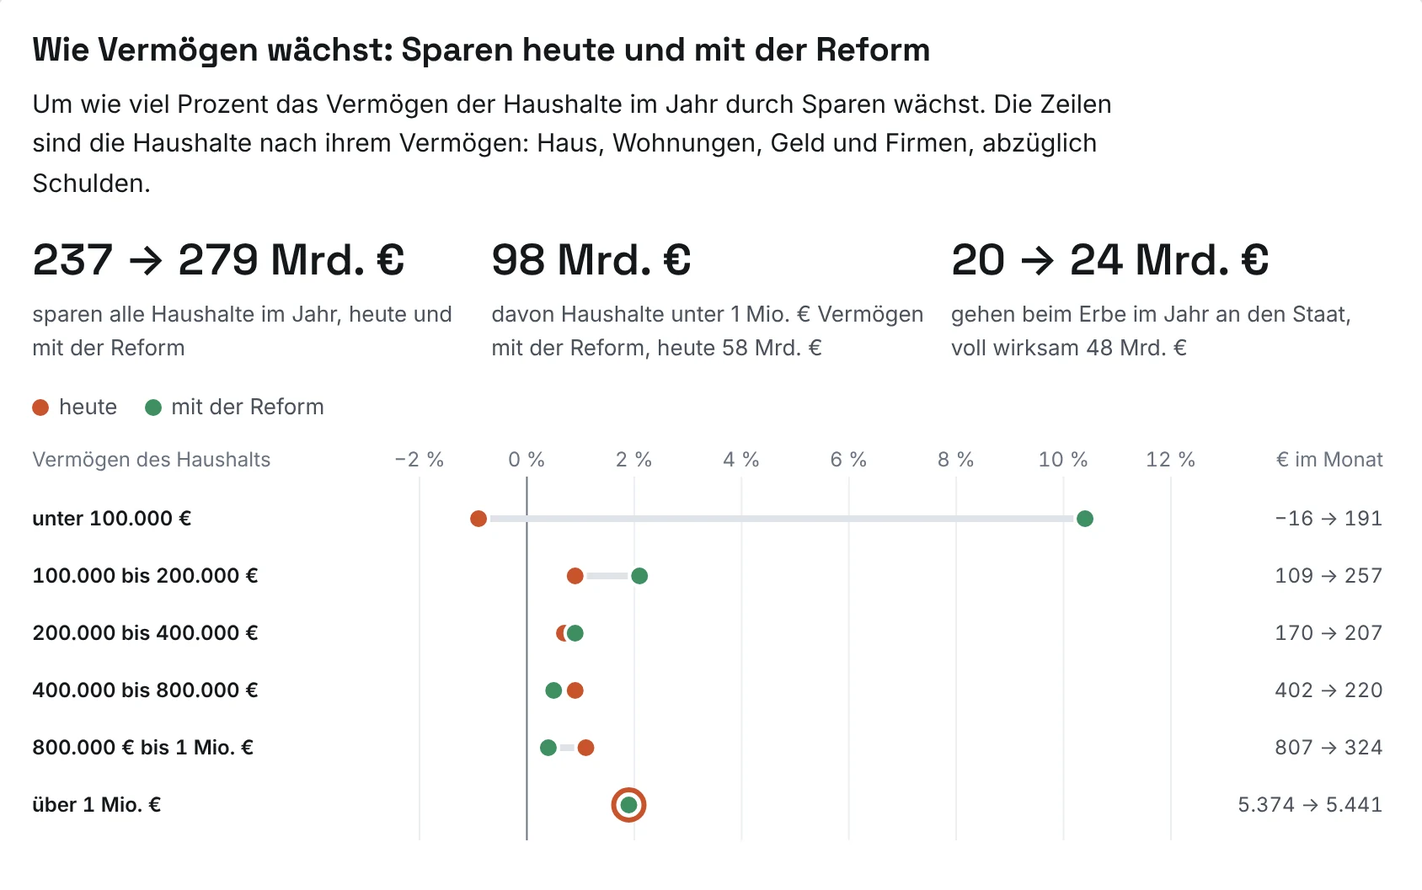
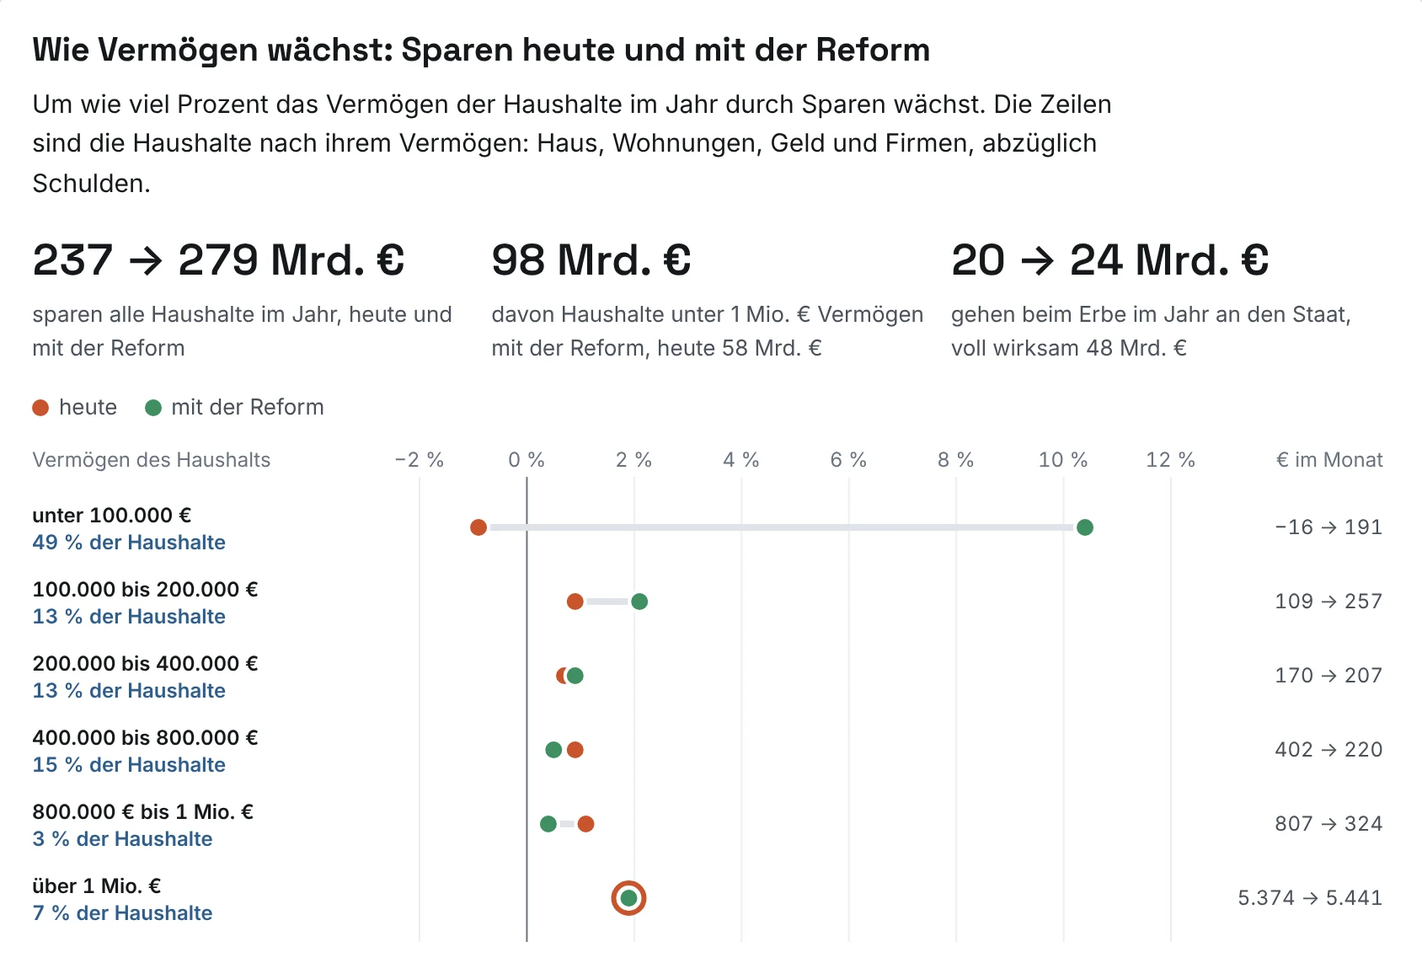
Startseite auf Version 32: Karten, Schuldengrafik; Vermögensgrafiken mit Anteil der Haushalte
Claude-Session: https://claude.ai/code/session_012Y93VcoN35D38RtTTtR6vF

diff --git a/index.html b/index.html
@@ -38,8 +38,8 @@
 <p class="quote">„Jede Einkommensart wird nach den gleichen Regeln und mit den gleichen Freibeträgen behandelt. Denn die Würde des Menschen ist gleich, ob man arm oder reich ist.“</p>
 <div class="grid3">
 <div class="card"><span class="big">frei</span><p>Das Existenzminimum bleibt steuerfrei, für jeden Erwachsenen und jedes Kind. Vom Lohn gehen keine Beiträge mehr ab, ohne Grenze, und der Arbeitgeber zahlt seine Anteile als Lohn aus. Lebensmittel, Trinkwasser, Bus und Bahn ohne Mehrwertsteuer.</p></div>
-<div class="card"><span class="big">7 von 10</span><p>Haushalten haben zum Start mehr Geld als heute, wenn sie so viel einkaufen wie heute, 83 von 100 mindestens so viel. Eine Familie mit zwei Kindern, 5.000 € brutto und eigenem Haus hat 1.119 € im Monat mehr.</p></div>
-<div class="card"><span class="big">trägt sich</span><p>Wer im bezahlten eigenen Haus wohnt, schon Rente bezieht oder aus versteuertem Ersparten lebt, zahlt nicht doppelt. Am Start fehlen dem Staat rund 13 Mrd. €, so wenig, dass es in den Spielraum der Schuldenbremse passt. Ab 2030 bleibt ein Überschuss, langfristig rund 233 Mrd. € im Jahr. Im mittleren Fall ist er 2062 schuldenfrei. Jede Zahl ist im Buch erklärt und hier im Rechner nachprüfbar.</p></div>
+<div class="card"><span class="big">7 von 10</span><p>Haushalten haben zum Start mehr Geld als heute, wenn sie so viel einkaufen wie heute, genau 73 von 100. Eine Familie mit zwei Kindern, 5.000 € brutto und eigenem Haus hat 1.039 € im Monat mehr.</p></div>
+<div class="card"><span class="big">trägt sich</span><p>Wer im bezahlten eigenen Haus wohnt, schon Rente bezieht oder aus versteuertem Ersparten lebt, zahlt nicht doppelt. Im ersten Jahr fehlen dem Staat 8,5 Mrd. €, im zweiten noch 5,3 Mrd. €. Das passt in den Spielraum der Schuldenbremse. Ab 2030 bleibt jedes Jahr ein Überschuss, der Kredit von höchstens 14 Mrd. € ist 2032 getilgt. Mit dem Zukunftsplan ist der Staat 2070 schuldenfrei; dafür steigt die Mehrwertsteuer ab 2030 um gut 1,5 Punkte. Im zuversichtlichen Fall ist er schon 2048 schuldenfrei, ohne Aufschlag. Jede Zahl ist im Buch erklärt und hier im Rechner nachprüfbar.</p></div>
 </div>
 <figure class="steuerlast"><a href="steuerlast/"><img src="bilder/steuerlast/steuerlast-feld-einkommen-vermoegen.webp" width="1688" height="1362" loading="lazy" alt="Farbfeld nach Einkommen und Vermögen: Bis rund 310.000 € Vermögen haben fast alle Gruppen mehr Geld als heute, zwischen 310.000 und 490.000 € bleibt es fast gleich, darüber haben die Gruppen weniger."></a><figcaption>Wer mehr Geld hat als heute und wer weniger, für alle 41 Mio. Haushalte nach Einkommen (nach rechts) und Vermögen (nach unten). Bis rund 310.000 € Vermögen ist fast alles grün, weniger haben vor allem Haushalte mit mehr als 490.000 € Vermögen. <a href="steuerlast/">Alle Grafiken: Wer die Reform bezahlt</a></figcaption></figure>
 <div class="cta"><div><h3>Was bedeutet das für deinen Haushalt?</h3><p style="margin:0;color:var(--muted)">Der Steuerrechner vergleicht heute und Vorschlag, zeigt die Staatsfinanzen bis 2070 und die CO₂-Abgabe. Er läuft im Browser und speichert nichts.</p></div><a class="btn" href="steuerrechner/">Jetzt nachrechnen</a></div>
@@ -65,10 +65,10 @@
 </style>
 <p class="eyebrow">Staatsschulden bis 2070</p>
 <h2>Ohne Reform in die Pleite, mit Reform schuldenfrei</h2>
-<p class="lead">Ohne Reform steigen die Staatsschulden im mittleren Fall bis 2070 auf 242&nbsp;% der Wirtschaftsleistung, ab 2059 höher als in Griechenland bei der Pleite. Mit der Reform und dem Zukunftsplan ist der Staat 2062 schuldenfrei. Danach senkt die Hälfte des Überschusses die Steuern. Die andere Hälfte baut Vermögen im Zukunftsfonds auf, 2070 sind es 17&nbsp;% der Wirtschaftsleistung.</p>
+<p class="lead">Ohne Reform steigen die Staatsschulden im mittleren Fall bis 2070 auf 242&nbsp;% der Wirtschaftsleistung, ab 2059 höher als in Griechenland bei der Pleite. Mit der Reform und dem Zukunftsplan ist der Staat 2070 schuldenfrei; dafür steigt die Mehrwertsteuer ab 2030 um gut 1,5&nbsp;Punkte. Im zuversichtlichen Fall ist er schon 2048 schuldenfrei, ohne Aufschlag, und hat 2070 Vermögen im Zukunftsfonds von 44,5&nbsp;% der Wirtschaftsleistung.</p>
 <figure>
 <p class="sg-sub">Staatsschulden in % der Wirtschaftsleistung, 2025&nbsp;bis&nbsp;2070, in drei Fällen; unter null hat der Staat Vermögen im Zukunftsfonds</p>
-<svg role="img" aria-label="Staatsschulden in Prozent der Wirtschaftsleistung bis 2070. Ohne Reform im mittleren Fall 242 %. Mit Reform und Zukunftsplan schuldenfrei 2062, danach Vermögen im Zukunftsfonds, 2070 im mittleren Fall 17 %." xmlns="http://www.w3.org/2000/svg" viewBox="0 0 460 294" width="100%" font-family="Inter, sans-serif" font-size="10" fill="#1d1d1b"><line x1="34" x2="52" y1="9.0" y2="9.0" stroke="#c8532c" stroke-width="2.2"/><text x="57.0" y="12.2" text-anchor="start" font-size="8.6" fill="#1d1d1b" font-weight="400" >Ohne Reform, mittlerer Fall</text><line x1="196" x2="214" y1="9.0" y2="9.0" stroke="#1f5a43" stroke-width="2.6"/><text x="219.0" y="12.2" text-anchor="start" font-size="8.6" fill="#1d1d1b" font-weight="400" >Mit Reform und Zukunftsplan, mittlerer Fall</text><rect x="34" y="18" width="9" height="10" fill="#c8532c" fill-opacity="0.22"/><rect x="43" y="18" width="9" height="10" fill="#3f8f63" fill-opacity="0.24"/><text x="57.0" y="26.2" text-anchor="start" font-size="8.6" fill="#1d1d1b" font-weight="400" >Spanne vom vorsichtigen bis zum zuversichtlichen Fall</text><line x1="34" x2="372" y1="74.5" y2="74.5" stroke="#e4e2dc" stroke-width="0.7"/><text x="30.0" y="77.5" text-anchor="end" font-size="7.8" fill="#8a8984" font-weight="400" >300 %</text><line x1="34" x2="372" y1="124.5" y2="124.5" stroke="#e4e2dc" stroke-width="0.7"/><text x="30.0" y="127.5" text-anchor="end" font-size="7.8" fill="#8a8984" font-weight="400" >200 %</text><line x1="34" x2="372" y1="174.5" y2="174.5" stroke="#e4e2dc" stroke-width="0.7"/><text x="30.0" y="177.5" text-anchor="end" font-size="7.8" fill="#8a8984" font-weight="400" >100 %</text><line x1="34" x2="372" y1="224.5" y2="224.5" stroke="#52514e" stroke-width="0.8"/><text x="30.0" y="227.5" text-anchor="end" font-size="7.8" fill="#8a8984" font-weight="400" >0</text><text x="34.0" y="286.5" text-anchor="middle" font-size="7.8" fill="#8a8984" font-weight="400" >2025</text><text x="71.6" y="286.5" text-anchor="middle" font-size="7.8" fill="#8a8984" font-weight="400" >2030</text><text x="146.7" y="286.5" text-anchor="middle" font-size="7.8" fill="#8a8984" font-weight="400" >2040</text><text x="221.8" y="286.5" text-anchor="middle" font-size="7.8" fill="#8a8984" font-weight="400" >2050</text><text x="296.9" y="286.5" text-anchor="middle" font-size="7.8" fill="#8a8984" font-weight="400" >2060</text><text x="372.0" y="286.5" text-anchor="middle" font-size="7.8" fill="#8a8984" font-weight="400" >2070</text><line x1="56.5" x2="56.5" y1="224.5" y2="149.5" stroke="#8a8984" stroke-width="0.7" stroke-dasharray="1.5 2"/><text x="59.5" y="151.5" text-anchor="start" font-size="7.2" fill="#8a8984" font-weight="400" >Reform ab 2028</text><line x1="34" x2="372" y1="142.0" y2="142.0" stroke="#52514e" stroke-width="0.8" stroke-dasharray="3 2"/><text x="36.0" y="138.0" text-anchor="start" font-size="7.6" fill="#52514e" font-weight="400" >Griechenland bei der Pleite 2012: 165 %</text><path d="M34.0,193.8 L41.5,194.1 L49.0,194.1 L56.5,193.9 L64.0,193.6 L71.6,193.1 L79.1,192.2 L86.6,191.2 L94.1,190.1 L101.6,188.6 L109.1,186.9 L116.6,185.1 L124.1,183.1 L131.6,180.8 L139.2,178.4 L146.7,175.9 L154.2,173.2 L161.7,170.4 L169.2,167.4 L176.7,164.4 L184.2,161.2 L191.7,157.9 L199.2,154.5 L206.8,150.9 L214.3,147.3 L221.8,143.5 L229.3,139.6 L236.8,135.6 L244.3,131.4 L251.8,127.2 L259.3,122.8 L266.8,118.3 L274.4,113.8 L281.9,109.0 L289.4,104.2 L296.9,99.2 L304.4,94.1 L311.9,88.8 L319.4,83.5 L326.9,78.0 L334.4,72.3 L342.0,66.6 L349.5,60.7 L357.0,54.6 L364.5,48.3 L372.0,42.0 L372.0,158.2 L364.5,159.8 L357.0,161.3 L349.5,162.8 L342.0,164.2 L334.4,165.8 L326.9,167.2 L319.4,168.6 L311.9,170.0 L304.4,171.4 L296.9,172.8 L289.4,174.1 L281.9,175.4 L274.4,176.7 L266.8,177.9 L259.3,179.2 L251.8,180.4 L244.3,181.6 L236.8,182.8 L229.3,183.9 L221.8,185.1 L214.3,186.2 L206.8,187.2 L199.2,188.3 L191.7,189.3 L184.2,190.2 L176.7,191.2 L169.2,192.1 L161.7,192.9 L154.2,193.8 L146.7,194.3 L139.2,194.8 L131.6,195.3 L124.1,195.7 L116.6,196.0 L109.1,196.2 L101.6,196.4 L94.1,196.5 L86.6,196.4 L79.1,196.3 L71.6,196.1 L64.0,195.7 L56.5,195.2 L49.0,194.8 L41.5,194.1 L34.0,193.7 Z" fill="#c8532c" fill-opacity="0.16"/><path d="M34.0,193.8 L41.5,194.1 L49.0,194.1 L56.5,193.3 L64.0,192.4 L71.6,192.6 L79.1,192.8 L86.6,193.1 L94.1,193.3 L101.6,193.5 L109.1,193.7 L116.6,193.9 L124.1,194.2 L131.6,194.4 L139.2,194.7 L146.7,195.0 L154.2,195.3 L161.7,195.7 L169.2,196.1 L176.7,196.4 L184.2,196.9 L191.7,197.4 L199.2,198.0 L206.8,198.6 L214.3,199.2 L221.8,199.8 L229.3,200.5 L236.8,201.2 L244.3,202.1 L251.8,203.0 L259.3,203.9 L266.8,205.0 L274.4,206.1 L281.9,207.2 L289.4,208.4 L296.9,209.7 L304.4,211.0 L311.9,212.3 L319.4,213.7 L326.9,215.2 L334.4,216.6 L342.0,218.1 L349.5,219.7 L357.0,221.2 L364.5,222.8 L372.0,224.5 L372.0,255.9 L364.5,254.6 L357.0,253.2 L349.5,251.9 L342.0,250.6 L334.4,249.2 L326.9,247.9 L319.4,246.6 L311.9,245.3 L304.4,243.9 L296.9,242.7 L289.4,241.3 L281.9,240.1 L274.4,238.8 L266.8,237.5 L259.3,236.2 L251.8,234.9 L244.3,233.8 L236.8,232.5 L229.3,231.3 L221.8,230.1 L214.3,228.9 L206.8,227.7 L199.2,226.5 L191.7,225.3 L184.2,223.1 L176.7,220.8 L169.2,218.6 L161.7,216.4 L154.2,214.4 L146.7,212.2 L139.2,210.2 L131.6,208.2 L124.1,206.2 L116.6,204.2 L109.1,202.3 L101.6,200.6 L94.1,198.9 L86.6,197.6 L79.1,196.4 L71.6,195.5 L64.0,194.9 L56.5,194.8 L49.0,194.8 L41.5,194.1 L34.0,193.7 Z" fill="#3f8f63" fill-opacity="0.18"/><path d="M308.7,224.5 L311.9,225.3 L319.4,226.2 L326.9,227.2 L334.4,228.2 L342.0,229.2 L349.5,230.2 L357.0,231.1 L364.5,232.1 L372.0,233.1 L372.0,224.5 Z" fill="#f2b33d" fill-opacity="0.85"/><path d="M34.0,193.8 L41.5,194.1 L49.0,194.3 L56.5,194.4 L64.0,194.3 L71.6,194.1 L79.1,193.8 L86.6,193.2 L94.1,192.5 L101.6,191.7 L109.1,190.7 L116.6,189.5 L124.1,188.2 L131.6,186.8 L139.2,185.3 L146.7,183.7 L154.2,182.0 L161.7,180.2 L169.2,178.4 L176.7,176.4 L184.2,174.4 L191.7,172.4 L199.2,170.2 L206.8,168.0 L214.3,165.8 L221.8,163.3 L229.3,160.9 L236.8,158.4 L244.3,155.9 L251.8,153.3 L259.3,150.7 L266.8,147.9 L274.4,145.2 L281.9,142.3 L289.4,139.4 L296.9,136.5 L304.4,133.5 L311.9,130.4 L319.4,127.2 L326.9,124.0 L334.4,120.8 L342.0,117.5 L349.5,114.0 L357.0,110.6 L364.5,107.1 L372.0,103.5" fill="none" stroke="#fbf8f1" stroke-width="4.8" stroke-linejoin="round"/><path d="M34.0,193.8 L41.5,194.1 L49.0,194.3 L56.5,194.4 L64.0,194.3 L71.6,194.1 L79.1,193.8 L86.6,193.2 L94.1,192.5 L101.6,191.7 L109.1,190.7 L116.6,189.5 L124.1,188.2 L131.6,186.8 L139.2,185.3 L146.7,183.7 L154.2,182.0 L161.7,180.2 L169.2,178.4 L176.7,176.4 L184.2,174.4 L191.7,172.4 L199.2,170.2 L206.8,168.0 L214.3,165.8 L221.8,163.3 L229.3,160.9 L236.8,158.4 L244.3,155.9 L251.8,153.3 L259.3,150.7 L266.8,147.9 L274.4,145.2 L281.9,142.3 L289.4,139.4 L296.9,136.5 L304.4,133.5 L311.9,130.4 L319.4,127.2 L326.9,124.0 L334.4,120.8 L342.0,117.5 L349.5,114.0 L357.0,110.6 L364.5,107.1 L372.0,103.5" fill="none" stroke="#c8532c" stroke-width="2.2" stroke-linejoin="round"/><path d="M34.0,193.8 L41.5,194.1 L49.0,194.3 L56.5,193.8 L64.0,193.2 L71.6,192.9 L79.1,192.8 L86.6,192.8 L94.1,192.9 L101.6,193.1 L109.1,193.3 L116.6,193.7 L124.1,194.2 L131.6,194.7 L139.2,195.3 L146.7,196.1 L154.2,196.9 L161.7,197.8 L169.2,198.8 L176.7,199.8 L184.2,200.9 L191.7,202.0 L199.2,203.2 L206.8,204.3 L214.3,205.4 L221.8,206.6 L229.3,207.8 L236.8,209.2 L244.3,210.5 L251.8,211.9 L259.3,213.3 L266.8,214.9 L274.4,216.5 L281.9,218.2 L289.4,219.8 L296.9,221.6 L304.4,223.4 L311.9,225.3 L319.4,226.2 L326.9,227.2 L334.4,228.2 L342.0,229.2 L349.5,230.2 L357.0,231.1 L364.5,232.1 L372.0,233.1" fill="none" stroke="#fbf8f1" stroke-width="5.2" stroke-linejoin="round"/><path d="M34.0,193.8 L41.5,194.1 L49.0,194.3 L56.5,193.8 L64.0,193.2 L71.6,192.9 L79.1,192.8 L86.6,192.8 L94.1,192.9 L101.6,193.1 L109.1,193.3 L116.6,193.7 L124.1,194.2 L131.6,194.7 L139.2,195.3 L146.7,196.1 L154.2,196.9 L161.7,197.8 L169.2,198.8 L176.7,199.8 L184.2,200.9 L191.7,202.0 L199.2,203.2 L206.8,204.3 L214.3,205.4 L221.8,206.6 L229.3,207.8 L236.8,209.2 L244.3,210.5 L251.8,211.9 L259.3,213.3 L266.8,214.9 L274.4,216.5 L281.9,218.2 L289.4,219.8 L296.9,221.6 L304.4,223.4 L311.9,225.3 L319.4,226.2 L326.9,227.2 L334.4,228.2 L342.0,229.2 L349.5,230.2 L357.0,231.1 L364.5,232.1 L372.0,233.1" fill="none" stroke="#1f5a43" stroke-width="2.6" stroke-linejoin="round"/><circle cx="289.4" cy="139.4" r="2.8" fill="#c8532c" stroke="#fbf8f1" stroke-width="1"/><text x="284.4" y="133.4" text-anchor="end" font-size="7.6" fill="#c8532c" font-weight="700" >ab 2059 darüber</text><circle cx="191.7" cy="225.3" r="2.6" fill="#1f5a43" stroke="#fbf8f1" stroke-width="1"/><text x="191.7" y="217.5" text-anchor="middle" font-size="7.4" fill="#1f5a43" font-weight="700" >2046</text><circle cx="311.9" cy="225.3" r="2.6" fill="#1f5a43" stroke="#fbf8f1" stroke-width="1"/><text x="311.9" y="217.5" text-anchor="middle" font-size="7.4" fill="#1f5a43" font-weight="700" >2062</text><text x="377.0" y="45.2" text-anchor="start" font-size="7.8" fill="#1d1d1b" font-weight="400" >365 % vorsichtig</text><text x="377.0" y="106.5" text-anchor="start" font-size="8.2" fill="#1d1d1b" font-weight="700" >242 % mittel</text><text x="377.0" y="161.4" text-anchor="start" font-size="7.8" fill="#1d1d1b" font-weight="400" >133 % zuversichtlich</text><circle cx="372.0" cy="103.5" r="2.4" fill="#c8532c" stroke="#fbf8f1" stroke-width="1"/><text x="377.0" y="210.5" text-anchor="start" font-size="8.2" fill="#1f5a43" font-weight="700" >schuldenfrei</text><text x="377.0" y="221.5" text-anchor="start" font-size="7.8" fill="#1f5a43" font-weight="400" >2046, 2062, 2070</text><circle cx="372.0" cy="233.1" r="2.4" fill="#1f5a43" stroke="#fbf8f1" stroke-width="1"/><text x="377.0" y="236.1" text-anchor="start" font-size="8.2" fill="#1f5a43" font-weight="700" >17 % Vermögen</text><text x="377.0" y="245.6" text-anchor="start" font-size="7.0" fill="#52514e" font-weight="400" >mittlerer Fall</text><text x="377.0" y="259.1" text-anchor="start" font-size="7.8" fill="#1d1d1b" font-weight="400" >63 % zuversichtlich</text><text x="367.0" y="236.5" text-anchor="end" font-size="7.4" fill="#1f5a43" font-weight="700" >Vermögen im</text><text x="367.0" y="245.5" text-anchor="end" font-size="7.4" fill="#1f5a43" font-weight="700" >Zukunftsfonds</text><text x="38.0" y="236.5" text-anchor="start" font-size="7.2" fill="#52514e" font-weight="400" >unter null: Vermögen statt Schulden</text></svg>
+<svg role="img" aria-label="Staatsschulden in Prozent der Wirtschaftsleistung bis 2070. Ohne Reform im mittleren Fall 242 %. Mit Reform und Zukunftsplan im mittleren Fall schuldenfrei 2070, im zuversichtlichen Fall 2048, dann 2070 Vermögen im Zukunftsfonds von 44 %." xmlns="http://www.w3.org/2000/svg" viewBox="0 0 460 294" width="100%" font-family="Inter, sans-serif" font-size="10" fill="#1d1d1b"><line x1="34" x2="52" y1="9.0" y2="9.0" stroke="#c8532c" stroke-width="2.2"/><text x="57.0" y="12.2" text-anchor="start" font-size="8.6" fill="#1d1d1b" font-weight="400" >Ohne Reform, mittlerer Fall</text><line x1="196" x2="214" y1="9.0" y2="9.0" stroke="#1f5a43" stroke-width="2.6"/><text x="219.0" y="12.2" text-anchor="start" font-size="8.6" fill="#1d1d1b" font-weight="400" >Mit Reform und Zukunftsplan, mittlerer Fall</text><rect x="34" y="18" width="9" height="10" fill="#c8532c" fill-opacity="0.22"/><rect x="43" y="18" width="9" height="10" fill="#3f8f63" fill-opacity="0.24"/><text x="57.0" y="26.2" text-anchor="start" font-size="8.6" fill="#1d1d1b" font-weight="400" >Spanne vom vorsichtigen bis zum zuversichtlichen Fall</text><line x1="34" x2="372" y1="74.5" y2="74.5" stroke="#e4e2dc" stroke-width="0.7"/><text x="30.0" y="77.5" text-anchor="end" font-size="7.8" fill="#8a8984" font-weight="400" >300 %</text><line x1="34" x2="372" y1="124.5" y2="124.5" stroke="#e4e2dc" stroke-width="0.7"/><text x="30.0" y="127.5" text-anchor="end" font-size="7.8" fill="#8a8984" font-weight="400" >200 %</text><line x1="34" x2="372" y1="174.5" y2="174.5" stroke="#e4e2dc" stroke-width="0.7"/><text x="30.0" y="177.5" text-anchor="end" font-size="7.8" fill="#8a8984" font-weight="400" >100 %</text><line x1="34" x2="372" y1="224.5" y2="224.5" stroke="#52514e" stroke-width="0.8"/><text x="30.0" y="227.5" text-anchor="end" font-size="7.8" fill="#8a8984" font-weight="400" >0</text><text x="34.0" y="286.5" text-anchor="middle" font-size="7.8" fill="#8a8984" font-weight="400" >2025</text><text x="71.6" y="286.5" text-anchor="middle" font-size="7.8" fill="#8a8984" font-weight="400" >2030</text><text x="146.7" y="286.5" text-anchor="middle" font-size="7.8" fill="#8a8984" font-weight="400" >2040</text><text x="221.8" y="286.5" text-anchor="middle" font-size="7.8" fill="#8a8984" font-weight="400" >2050</text><text x="296.9" y="286.5" text-anchor="middle" font-size="7.8" fill="#8a8984" font-weight="400" >2060</text><text x="372.0" y="286.5" text-anchor="middle" font-size="7.8" fill="#8a8984" font-weight="400" >2070</text><line x1="56.5" x2="56.5" y1="224.5" y2="149.5" stroke="#8a8984" stroke-width="0.7" stroke-dasharray="1.5 2"/><text x="59.5" y="151.5" text-anchor="start" font-size="7.2" fill="#8a8984" font-weight="400" >Reform ab 2028</text><line x1="34" x2="372" y1="142.0" y2="142.0" stroke="#52514e" stroke-width="0.8" stroke-dasharray="3 2"/><text x="36.0" y="138.0" text-anchor="start" font-size="7.6" fill="#52514e" font-weight="400" >Griechenland bei der Pleite 2012: 165 %</text><path d="M34.0,193.8 L41.5,194.1 L49.0,194.1 L56.5,193.9 L64.0,193.6 L71.6,193.1 L79.1,192.2 L86.6,191.2 L94.1,190.1 L101.6,188.6 L109.1,186.9 L116.6,185.1 L124.1,183.1 L131.6,180.8 L139.2,178.4 L146.7,175.9 L154.2,173.2 L161.7,170.4 L169.2,167.4 L176.7,164.4 L184.2,161.2 L191.7,157.9 L199.2,154.5 L206.8,150.9 L214.3,147.3 L221.8,143.5 L229.3,139.6 L236.8,135.6 L244.3,131.4 L251.8,127.2 L259.3,122.8 L266.8,118.3 L274.4,113.8 L281.9,109.0 L289.4,104.2 L296.9,99.2 L304.4,94.1 L311.9,88.8 L319.4,83.5 L326.9,78.0 L334.4,72.3 L342.0,66.6 L349.5,60.7 L357.0,54.6 L364.5,48.3 L372.0,42.0 L372.0,158.2 L364.5,159.8 L357.0,161.3 L349.5,162.8 L342.0,164.2 L334.4,165.8 L326.9,167.2 L319.4,168.6 L311.9,170.0 L304.4,171.4 L296.9,172.8 L289.4,174.1 L281.9,175.4 L274.4,176.7 L266.8,177.9 L259.3,179.2 L251.8,180.4 L244.3,181.6 L236.8,182.8 L229.3,183.9 L221.8,185.1 L214.3,186.2 L206.8,187.2 L199.2,188.3 L191.7,189.3 L184.2,190.2 L176.7,191.2 L169.2,192.1 L161.7,192.9 L154.2,193.8 L146.7,194.3 L139.2,194.8 L131.6,195.3 L124.1,195.7 L116.6,196.0 L109.1,196.2 L101.6,196.4 L94.1,196.5 L86.6,196.4 L79.1,196.3 L71.6,196.1 L64.0,195.7 L56.5,195.2 L49.0,194.8 L41.5,194.1 L34.0,193.7 Z" fill="#c8532c" fill-opacity="0.16"/><path d="M34.0,193.8 L41.5,194.1 L49.0,194.1 L56.5,193.4 L64.0,192.5 L71.6,193.1 L79.1,193.8 L86.6,194.5 L94.1,195.2 L101.6,195.7 L109.1,196.2 L116.6,196.8 L124.1,197.3 L131.6,197.8 L139.2,198.3 L146.7,198.9 L154.2,199.4 L161.7,200.0 L169.2,200.6 L176.7,201.2 L184.2,201.8 L191.7,202.3 L199.2,203.0 L206.8,203.6 L214.3,204.2 L221.8,204.9 L229.3,205.6 L236.8,206.3 L244.3,207.1 L251.8,207.9 L259.3,208.8 L266.8,209.7 L274.4,210.7 L281.9,211.7 L289.4,212.7 L296.9,213.7 L304.4,214.7 L311.9,215.7 L319.4,216.8 L326.9,217.8 L334.4,218.9 L342.0,220.0 L349.5,221.1 L357.0,222.2 L364.5,223.3 L372.0,224.5 L372.0,246.8 L364.5,245.8 L357.0,244.8 L349.5,243.9 L342.0,242.9 L334.4,241.9 L326.9,241.0 L319.4,240.0 L311.9,239.1 L304.4,238.1 L296.9,237.1 L289.4,236.1 L281.9,235.1 L274.4,234.1 L266.8,233.2 L259.3,232.2 L251.8,231.2 L244.3,230.2 L236.8,229.2 L229.3,228.2 L221.8,227.3 L214.3,226.3 L206.8,225.4 L199.2,223.4 L191.7,221.6 L184.2,219.7 L176.7,217.9 L169.2,216.1 L161.7,214.2 L154.2,212.4 L146.7,210.7 L139.2,208.8 L131.6,207.1 L124.1,205.3 L116.6,203.6 L109.1,201.9 L101.6,200.3 L94.1,198.8 L86.6,197.6 L79.1,196.4 L71.6,195.6 L64.0,195.1 L56.5,194.9 L49.0,194.8 L41.5,194.1 L34.0,193.7 Z" fill="#3f8f63" fill-opacity="0.18"/><path d="M372.0,224.5 L372.0,224.5 L372.0,224.5 Z" fill="#f2b33d" fill-opacity="0.85"/><path d="M34.0,193.8 L41.5,194.1 L49.0,194.3 L56.5,194.4 L64.0,194.3 L71.6,194.1 L79.1,193.8 L86.6,193.2 L94.1,192.5 L101.6,191.7 L109.1,190.7 L116.6,189.5 L124.1,188.2 L131.6,186.8 L139.2,185.3 L146.7,183.7 L154.2,182.0 L161.7,180.2 L169.2,178.4 L176.7,176.4 L184.2,174.4 L191.7,172.4 L199.2,170.2 L206.8,168.0 L214.3,165.8 L221.8,163.3 L229.3,160.9 L236.8,158.4 L244.3,155.9 L251.8,153.3 L259.3,150.7 L266.8,147.9 L274.4,145.2 L281.9,142.3 L289.4,139.4 L296.9,136.5 L304.4,133.5 L311.9,130.4 L319.4,127.2 L326.9,124.0 L334.4,120.8 L342.0,117.5 L349.5,114.0 L357.0,110.6 L364.5,107.1 L372.0,103.5" fill="none" stroke="#fbf8f1" stroke-width="4.8" stroke-linejoin="round"/><path d="M34.0,193.8 L41.5,194.1 L49.0,194.3 L56.5,194.4 L64.0,194.3 L71.6,194.1 L79.1,193.8 L86.6,193.2 L94.1,192.5 L101.6,191.7 L109.1,190.7 L116.6,189.5 L124.1,188.2 L131.6,186.8 L139.2,185.3 L146.7,183.7 L154.2,182.0 L161.7,180.2 L169.2,178.4 L176.7,176.4 L184.2,174.4 L191.7,172.4 L199.2,170.2 L206.8,168.0 L214.3,165.8 L221.8,163.3 L229.3,160.9 L236.8,158.4 L244.3,155.9 L251.8,153.3 L259.3,150.7 L266.8,147.9 L274.4,145.2 L281.9,142.3 L289.4,139.4 L296.9,136.5 L304.4,133.5 L311.9,130.4 L319.4,127.2 L326.9,124.0 L334.4,120.8 L342.0,117.5 L349.5,114.0 L357.0,110.6 L364.5,107.1 L372.0,103.5" fill="none" stroke="#c8532c" stroke-width="2.2" stroke-linejoin="round"/><path d="M34.0,193.8 L41.5,194.1 L49.0,194.3 L56.5,193.8 L64.0,193.3 L71.6,193.2 L79.1,193.2 L86.6,193.2 L94.1,193.4 L101.6,193.6 L109.1,193.8 L116.6,194.1 L124.1,194.4 L131.6,194.9 L139.2,195.4 L146.7,196.0 L154.2,196.7 L161.7,197.4 L169.2,198.2 L176.7,199.1 L184.2,199.8 L191.7,200.6 L199.2,201.4 L206.8,202.2 L214.3,202.9 L221.8,203.7 L229.3,204.5 L236.8,205.3 L244.3,206.2 L251.8,207.0 L259.3,207.9 L266.8,208.8 L274.4,209.8 L281.9,210.8 L289.4,211.8 L296.9,212.9 L304.4,213.9 L311.9,215.1 L319.4,216.2 L326.9,217.3 L334.4,218.4 L342.0,219.6 L349.5,220.8 L357.0,222.0 L364.5,223.2 L372.0,224.5" fill="none" stroke="#fbf8f1" stroke-width="5.2" stroke-linejoin="round"/><path d="M34.0,193.8 L41.5,194.1 L49.0,194.3 L56.5,193.8 L64.0,193.3 L71.6,193.2 L79.1,193.2 L86.6,193.2 L94.1,193.4 L101.6,193.6 L109.1,193.8 L116.6,194.1 L124.1,194.4 L131.6,194.9 L139.2,195.4 L146.7,196.0 L154.2,196.7 L161.7,197.4 L169.2,198.2 L176.7,199.1 L184.2,199.8 L191.7,200.6 L199.2,201.4 L206.8,202.2 L214.3,202.9 L221.8,203.7 L229.3,204.5 L236.8,205.3 L244.3,206.2 L251.8,207.0 L259.3,207.9 L266.8,208.8 L274.4,209.8 L281.9,210.8 L289.4,211.8 L296.9,212.9 L304.4,213.9 L311.9,215.1 L319.4,216.2 L326.9,217.3 L334.4,218.4 L342.0,219.6 L349.5,220.8 L357.0,222.0 L364.5,223.2 L372.0,224.5" fill="none" stroke="#1f5a43" stroke-width="2.6" stroke-linejoin="round"/><circle cx="289.4" cy="139.4" r="2.8" fill="#c8532c" stroke="#fbf8f1" stroke-width="1"/><text x="284.4" y="133.4" text-anchor="end" font-size="7.6" fill="#c8532c" font-weight="700" >ab 2059 darüber</text><circle cx="206.8" cy="225.4" r="2.6" fill="#1f5a43" stroke="#fbf8f1" stroke-width="1"/><text x="206.8" y="217.5" text-anchor="middle" font-size="7.4" fill="#1f5a43" font-weight="700" >2048</text><circle cx="372.0" cy="224.5" r="2.6" fill="#1f5a43" stroke="#fbf8f1" stroke-width="1"/><text x="377.0" y="45.2" text-anchor="start" font-size="7.8" fill="#1d1d1b" font-weight="400" >365 % vorsichtig</text><text x="377.0" y="106.5" text-anchor="start" font-size="8.2" fill="#1d1d1b" font-weight="700" >242 % mittel</text><text x="377.0" y="161.4" text-anchor="start" font-size="7.8" fill="#1d1d1b" font-weight="400" >133 % zuversichtlich</text><circle cx="372.0" cy="103.5" r="2.4" fill="#c8532c" stroke="#fbf8f1" stroke-width="1"/><text x="377.0" y="210.5" text-anchor="start" font-size="8.2" fill="#1f5a43" font-weight="700" >schuldenfrei</text><text x="377.0" y="221.5" text-anchor="start" font-size="7.8" fill="#1f5a43" font-weight="400" >2048, 2070, 2070</text><circle cx="372.0" cy="246.8" r="2.4" fill="#1f5a43" stroke="#fbf8f1" stroke-width="1"/><text x="377.0" y="249.8" text-anchor="start" font-size="8.2" fill="#1f5a43" font-weight="700" >44,5 % Vermögen</text><text x="377.0" y="259.2" text-anchor="start" font-size="7.0" fill="#52514e" font-weight="400" >zuversichtlich</text><text x="367.0" y="236.5" text-anchor="end" font-size="7.4" fill="#1f5a43" font-weight="700" >Vermögen im</text><text x="367.0" y="245.5" text-anchor="end" font-size="7.4" fill="#1f5a43" font-weight="700" >Zukunftsfonds</text><text x="38.0" y="236.5" text-anchor="start" font-size="7.2" fill="#52514e" font-weight="400" >unter null: Vermögen statt Schulden</text></svg>
 <figcaption>Eigene Rechnung auf Grundlage des <a href="https://dserver.bundestag.de/btd/20/112/2011235.pdf#page=7" target="_blank" rel="noopener">Sechsten Tragfähigkeitsberichts (BMF 2024)</a>. Die drei Fälle und die Rechnung stehen in <a href="buch/kapitel-6.html">Kapitel&nbsp;6</a> und im <a href="buch/anhang-c.html#c9">Anhang&nbsp;C9</a>.</figcaption>
 </figure>
 <p class="sg-links"><a href="buch/kapitel-1.html#warum-es-ohne-reform-nicht-geht">Mehr dazu in Kapitel 1</a> · <a href="steuerrechner/#staat">Im Steuerrechner nachrechnen</a></p>

diff --git a/werkzeug/steuerlast-schnitt.py b/werkzeug/steuerlast-schnitt.py
@@ -5,9 +5,9 @@ plan={
  'steuerlast-feld-einkommen-vermoegen':[(8,100),(200,1440)],
  'steuerlast-nach-einkommen':[(8,960)],
  'steuerlast-anteile':[(8,700)],
- 'steuerlast-nach-vermoegen':[(8,680)],
+ 'steuerlast-nach-vermoegen':[(8,790)],
  'wer-bezahlt-einkommen-vermoegen':[(8,100),(200,1200)],
- 'vermoegen-sparen':[(8,100),(200,1135)],
+ 'vermoegen-sparen':[(8,100),(200,1240)],
 }
 for f,segs in plan.items():
     im=Image.open(D+f+'.png').convert('RGB')
